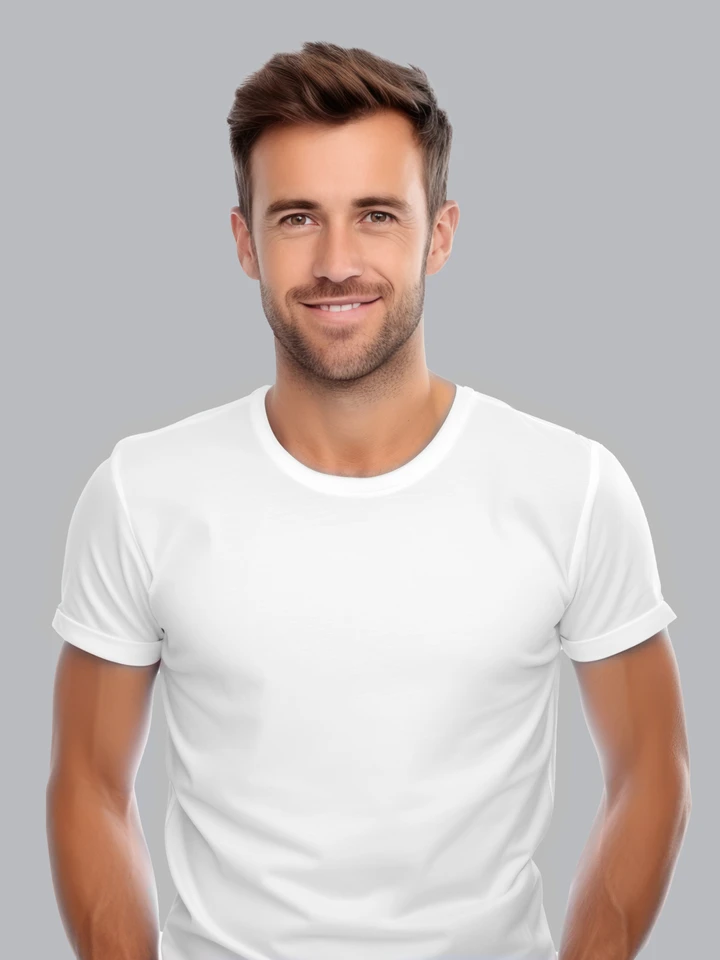
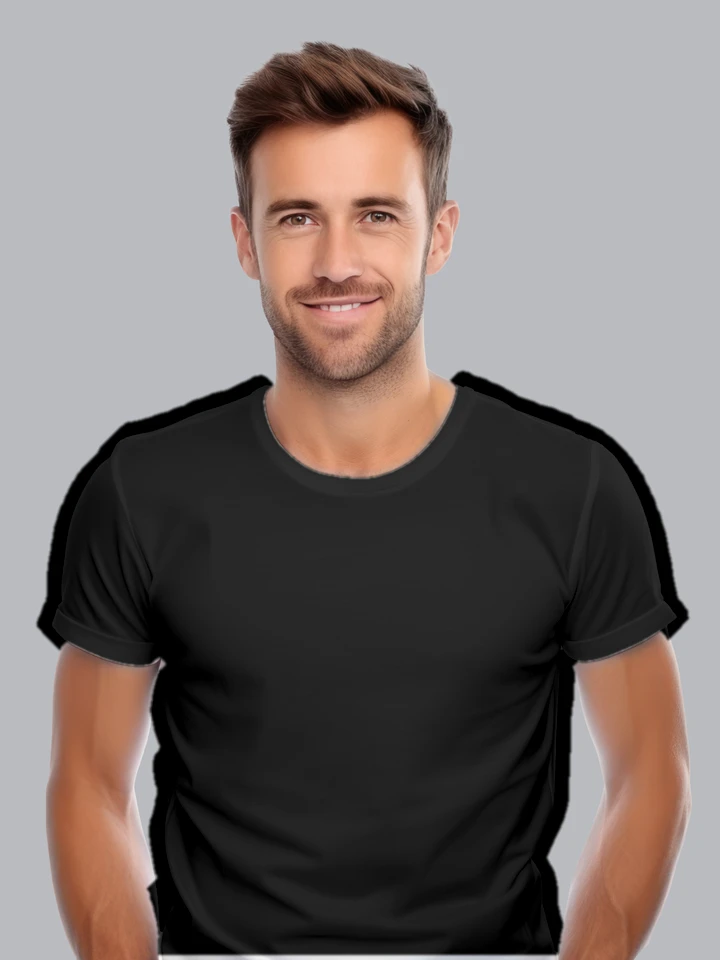
Fix Lab recolor to actually reach dark/light target colors
Pure a*/b* swap kept the source photo's own L (lightness) untouched,
so a black target on a white shirt still rendered as light grey
instead of black (reported: "unable to see black colour") — L was
never allowed to move.

Now L is re-centered on the target color's own L, offset by each
pixel's deviation from the garment's average L. This keeps the same
relative shading (folds/shadows still come from the photo) while
letting overall brightness actually reach the target, so black
renders black and white renders white. Applied to both the offline
pre-render script and the live shader, and regenerated all 16 variant
images.

diff --git a/frontend/src/components/recolor-canvas.tsx b/frontend/src/components/recolor-canvas.tsx
@@ -23,16 +23,19 @@ type Props = {
 const srgbToLinear = (v: number) => (v <= 0.04045 ? v / 12.92 : Math.pow((v + 0.055) / 1.055, 2.4));
 const fwdLab = (t: number) => (t > 216 / 24389 ? Math.cbrt(t) : (24389 / 27 * t + 16) / 116);
 
-/** Target color's Lab a/b chroma channels (D65) — the live shader keeps the source pixel's
- * own L and replaces only these, see RECOLOR_FRAGMENT in recolor-shader.ts. */
-function hexToLabAB(h: string): [number, number] {
-  const [r, g, b] = [1, 3, 5].map((i) => srgbToLinear(parseInt(h.slice(i, i + 2), 16) / 255));
-  const X = (r * 0.4124564 + g * 0.3575761 + b * 0.1804375) / 0.95047;
-  const Y = r * 0.2126729 + g * 0.7151522 + b * 0.072175;
-  const Z = (r * 0.0193339 + g * 0.119192 + b * 0.9503041) / 1.08883;
+function rgbToLab(r: number, g: number, b: number): [number, number, number] {
+  const [R, G, B] = [r, g, b].map(srgbToLinear);
+  const X = (R * 0.4124564 + G * 0.3575761 + B * 0.1804375) / 0.95047;
+  const Y = R * 0.2126729 + G * 0.7151522 + B * 0.072175;
+  const Z = (R * 0.0193339 + G * 0.119192 + B * 0.9503041) / 1.08883;
   const fx = fwdLab(X), fy = fwdLab(Y), fz = fwdLab(Z);
-  return [500 * (fx - fy), 200 * (fy - fz)];
+  return [116 * fy - 16, 500 * (fx - fy), 200 * (fy - fz)];
 }
+
+/** Target color's Lab L, a, b (D65) — the live shader re-centers the source pixel's own L
+ * on this L and replaces a/b, see RECOLOR_FRAGMENT in recolor-shader.ts. */
+const hexToLab = (h: string) =>
+  rgbToLab(...([1, 3, 5].map((i) => parseInt(h.slice(i, i + 2), 16) / 255) as [number, number, number]));
 
 function loadImage(url: string) {
   return new Promise<HTMLImageElement>((resolve, reject) => {
@@ -43,27 +46,46 @@ function loadImage(url: string) {
   });
 }
 
-/** Bounding box of the garment's non-transparent pixels, for the studio's print-area placement. */
-function scanGarment(img: HTMLImageElement): { bbox: [number, number, number, number] } {
-  const canvas = document.createElement("canvas");
-  canvas.width = img.width;
-  canvas.height = img.height;
-  const ctx = canvas.getContext("2d")!;
-  ctx.drawImage(img, 0, 0);
-  const { data } = ctx.getImageData(0, 0, img.width, img.height);
-  let x0 = img.width, y0 = img.height, x1 = 0, y1 = 0;
-  for (let y = 0; y < img.height; y++) {
-    for (let x = 0; x < img.width; x++) {
-      const i = (y * img.width + x) * 4;
-      if (data[i + 3] > 8) {
+/** Bounding box of the garment's non-transparent pixels (for the studio's print-area
+ * placement), and the garment's own average Lab L (for the live shader's uSourceAvgL — see
+ * RECOLOR_FRAGMENT in recolor-shader.ts). */
+function scanGarment(baseImg: HTMLImageElement, garmentImg: HTMLImageElement): { bbox: [number, number, number, number]; avgL: number } {
+  const { width, height } = garmentImg;
+  const garmentCanvas = document.createElement("canvas");
+  garmentCanvas.width = width;
+  garmentCanvas.height = height;
+  const garmentCtx = garmentCanvas.getContext("2d")!;
+  garmentCtx.drawImage(garmentImg, 0, 0);
+  const mask = garmentCtx.getImageData(0, 0, width, height).data;
+
+  const baseCanvas = document.createElement("canvas");
+  baseCanvas.width = width;
+  baseCanvas.height = height;
+  const baseCtx = baseCanvas.getContext("2d")!;
+  baseCtx.drawImage(baseImg, 0, 0, width, height);
+  const base = baseCtx.getImageData(0, 0, width, height).data;
+
+  let x0 = width, y0 = height, x1 = 0, y1 = 0;
+  let lSum = 0, lCount = 0;
+  for (let y = 0; y < height; y++) {
+    for (let x = 0; x < width; x++) {
+      const i = (y * width + x) * 4;
+      if (mask[i + 3] > 8) {
         if (x < x0) x0 = x;
         if (x > x1) x1 = x;
         if (y < y0) y0 = y;
         if (y > y1) y1 = y;
       }
+      if (mask[i + 3] > 128) {
+        lSum += rgbToLab(base[i] / 255, base[i + 1] / 255, base[i + 2] / 255)[0];
+        lCount++;
+      }
     }
   }
-  return { bbox: x1 > x0 ? [x0, y0, x1, y1] : [0, 0, img.width, img.height] };
+  return {
+    bbox: x1 > x0 ? [x0, y0, x1, y1] : [0, 0, width, height],
+    avgL: lCount > 0 ? lSum / lCount : 50,
+  };
 }
 
 /** Live garment recolor: a feathered-alpha "garment-layer" mask, Lab color-swapped live
@@ -104,7 +126,7 @@ export const RecolorCanvas = forwardRef<RecolorHandle, Props>(function RecolorCa
         ]);
         if (cancelled) return;
         const W = modelImg.width, H = modelImg.height;
-        const { bbox } = scanGarment(garmentImg);
+        const { bbox, avgL } = scanGarment(modelImg, garmentImg);
         const meta: GarmentMeta = { width: W, height: H, bbox };
 
         app = new PIXI.Application();
@@ -140,7 +162,8 @@ export const RecolorCanvas = forwardRef<RecolorHandle, Props>(function RecolorCa
             uBase: PIXI.Texture.from(modelImg).source,
             uGarment: PIXI.Texture.from(garmentImg).source,
             recolor: {
-              uTargetAB: { value: new Float32Array(2), type: "vec2<f32>" },
+              uTargetLab: { value: new Float32Array(3), type: "vec3<f32>" },
+              uSourceAvgL: { value: avgL, type: "f32" },
             },
           },
         });
@@ -184,7 +207,7 @@ export const RecolorCanvas = forwardRef<RecolorHandle, Props>(function RecolorCa
     if (!shader || !mesh || !app) return;
     mesh.visible = topColor !== null;
     if (topColor !== null) {
-      shader.resources.recolor.uniforms.uTargetAB.set(hexToLabAB(topColor));
+      shader.resources.recolor.uniforms.uTargetLab.set(hexToLab(topColor));
     }
     app.render();
   }, [topColor, loading]);

diff --git a/frontend/src/lib/recolor-shader.ts b/frontend/src/lib/recolor-shader.ts
@@ -16,17 +16,21 @@ void main() {
   vUV = aUV;
 }`;
 
-// Lab color-swap: convert the source pixel to CIE Lab, keep its own L (lightness) untouched
-// and replace only a*/b* (color) with the target's — the same trick as Photoshop's "Color"
-// blend mode. Folds, shadows and fabric texture come straight from the photo's own
-// brightness; only hue/saturation change. Matches scripts/lab-color.mjs used offline to
-// pre-render the listing thumbnails, so the live canvas and the cached variants agree.
+// Lab color-swap: convert the source pixel to CIE Lab and replace a*/b* (color) with the
+// target's — the same trick as Photoshop's "Color" blend mode, so folds, shadows and fabric
+// texture come straight from the photo's own shading; only hue/saturation change. L
+// (lightness) is re-centered on the target color's own L, keeping each pixel's shading
+// relative to the garment's average L, so a black target actually renders black and a white
+// target actually renders white instead of staying pinned to the source photo's own
+// brightness. Matches scripts/lab-color.mjs used offline to pre-render the listing
+// thumbnails, so the live canvas and the cached variants agree.
 export const RECOLOR_FRAGMENT = /* glsl */ `
 in vec2 vUV;
 out vec4 finalColor;
 uniform sampler2D uBase;
 uniform sampler2D uGarment;
-uniform vec2 uTargetAB; // target color's Lab a*, b*
+uniform vec3 uTargetLab; // target color's Lab L*, a*, b*
+uniform float uSourceAvgL; // this garment's own average Lab L, sampled offline in JS
 
 float srgbToLinear(float v) { return v <= 0.04045 ? v / 12.92 : pow((v + 0.055) / 1.055, 2.4); }
 float linearToSrgb(float v) { return v <= 0.0031308 ? v * 12.92 : 1.055 * pow(v, 1.0 / 2.4) - 0.055; }
@@ -63,6 +67,7 @@ void main() {
   }
   vec3 src = texture(uBase, vUV).rgb;
   float L = rgbToLabL(src);
-  vec3 recolored = labToRgb(L, uTargetAB.x, uTargetAB.y);
+  float newL = clamp(uTargetLab.x + (L - uSourceAvgL), 0.0, 100.0);
+  vec3 recolored = labToRgb(newL, uTargetLab.y, uTargetLab.z);
   finalColor = vec4(recolored * mask, mask);
 }`;
